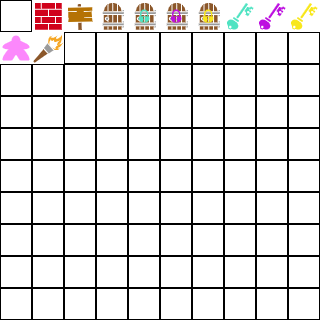
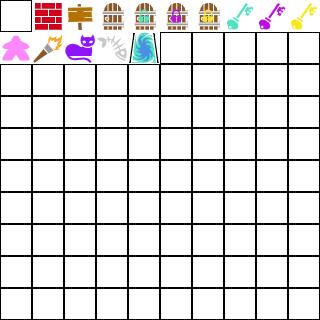
south hall updates

Changed region(s): [[0.1875, 0.0938, 0.5, 0.2188]]

diff --git a/public/scripts/cells.js b/public/scripts/cells.js
@@ -10,6 +10,8 @@ const CELL_KEY_MAGENTA = 8;
 const CELL_KEY_YELLOW = 9;
 const CELL_AVATAR = 10;
 const CELL_TORCH = 11;
+const CELL_CAT = 12;
+const CELL_FISHBONE = 13;
 
 let cellSprites = {};
 cellSprites[CELL_WALL]=SPRITE_WALL;
@@ -23,6 +25,8 @@ cellSprites[CELL_KEY_CYAN]    = SPRITE_KEY_CYAN;
 cellSprites[CELL_KEY_MAGENTA] = SPRITE_KEY_MAGENTA;
 cellSprites[CELL_KEY_YELLOW]  = SPRITE_KEY_YELLOW;
 cellSprites[CELL_TORCH] = SPRITE_TORCH;
+cellSprites[CELL_CAT] = SPRITE_CAT;
+cellSprites[CELL_FISHBONE] = SPRITE_FISHBONE;
 class Cells{
     static getSprite(cell){
         return cellSprites[cell];
@@ -40,6 +44,8 @@ class Cells{
             return CELL_KEY_MAGENTA;
         }else if(cell==CELL_WOOD_DOOR_YELLOW){
             return CELL_KEY_YELLOW;
+        }else if(cell==CELL_CAT){
+            return CELL_FISHBONE;
         }else{
             return null;
         }
@@ -51,6 +57,8 @@ class Cells{
             return CELL_WOOD_DOOR;
         }else if(cell==CELL_WOOD_DOOR_YELLOW){
             return CELL_WOOD_DOOR;
+        }else if(cell==CELL_CAT){
+            return CELL_FLOOR;
         }else{
             return cell;
         }
@@ -62,7 +70,7 @@ class Cells{
         return cell == CELL_WOOD_DOOR;
     }
     static isItem(cell){
-        return cell == CELL_KEY_CYAN || cell == CELL_KEY_MAGENTA || cell == CELL_KEY_YELLOW || cell == CELL_TORCH;
+        return cell == CELL_KEY_CYAN || cell == CELL_KEY_MAGENTA || cell == CELL_KEY_YELLOW || cell == CELL_TORCH || cell == CELL_FISHBONE;
     }
     static isLit(cell,dx,dy){
         if(cell==CELL_AVATAR){

diff --git a/public/scripts/sprites.js b/public/scripts/sprites.js
@@ -10,6 +10,9 @@ const SPRITE_KEY_MAGENTA = "key-magenta";
 const SPRITE_KEY_YELLOW = "key-yellow";
 const SPRITE_TORCH = "torch";
 const SPRITE_DARKNESS = "darkness";
+const SPRITE_CAT = "cat";
+const SPRITE_FISHBONE = "fishbone";
+const SPRITE_MAGIC_PORTAL = "magic-portal";
 
 const SPRITE_SIGN_BIG = "sign-big";
 const SPRITE_CONTROLS_BIG = "controls-big";
@@ -31,6 +34,9 @@ class Sprites{
         spriteImages[SPRITE_KEY_YELLOW] = loadImage('assets/images/key-yellow.png');
         spriteImages[SPRITE_TORCH] = loadImage('assets/images/torch.png');
         spriteImages[SPRITE_DARKNESS] = loadImage('assets/images/darkness.png');
+        spriteImages[SPRITE_CAT] = loadImage('assets/images/cat.png');
+        spriteImages[SPRITE_FISHBONE] = loadImage('assets/images/fishbone.png');
+        spriteImages[SPRITE_MAGIC_PORTAL] = loadImage('assets/images/magic-portal.png');
 
         spriteImages[SPRITE_SIGN_BIG] = loadImage('assets/images/wooden-sign-320.png');
         spriteImages[SPRITE_CONTROLS_BIG] = loadImage('assets/images/controls-320.png');

diff --git a/public/scripts/rooms.js b/public/scripts/rooms.js
@@ -42,6 +42,7 @@ class Rooms{
                 lit: true,
                 data: Rooms.convertToLevelData(RoomData.southHall),
                 signs: [
+                    {column:15,row:2,text:'The cat looks hungry....'},
                     {column:9,row:11,text:'(This game is a WIP. This is as far as it goes, for now!)'}
                 ],
                 exits: [
